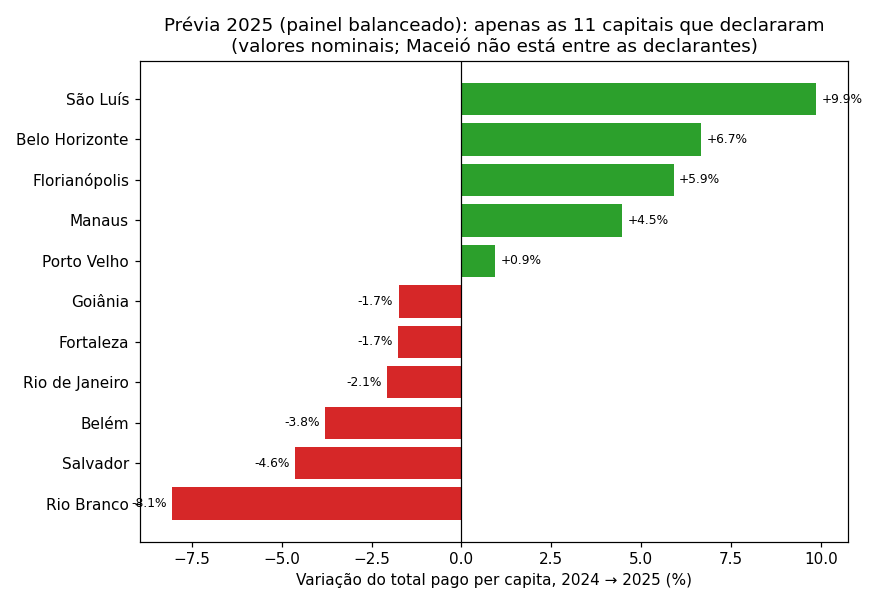
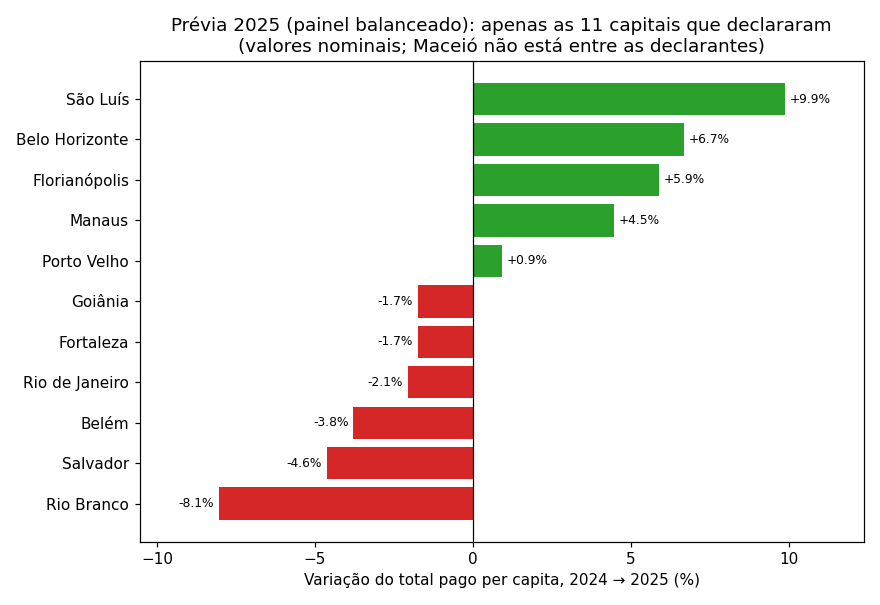
correção de bug no arquivo gerar_graficos.py

diff --git a/scripts/gerar_graficos.py b/scripts/gerar_graficos.py
@@ -1,4 +1,3 @@
-
 from pathlib import Path
 import duckdb
 import matplotlib.pyplot as plt
@@ -160,6 +159,9 @@ cores5 = ["#2ca02c" if v >= 0 else "#d62728" for v in df5["variacao"]]
 fig, ax = plt.subplots(figsize=(8, 5.5))
 ax.barh(df5["capital"], df5["variacao"], color=cores5)
 ax.axvline(0, color="black", linewidth=0.8)
+# margem extra nas pontas para os rótulos não cortarem na borda
+vmin, vmax = df5["variacao"].min(), df5["variacao"].max()
+ax.set_xlim(vmin - 2.5, vmax + 2.5)
 ax.set_xlabel("Variação do total pago per capita, 2024 → 2025 (%)")
 ax.set_title("Prévia 2025 (painel balanceado): apenas as 11 capitais que declararam\n(valores nominais; Maceió não está entre as declarantes)")
 for i, v in enumerate(df5["variacao"]):